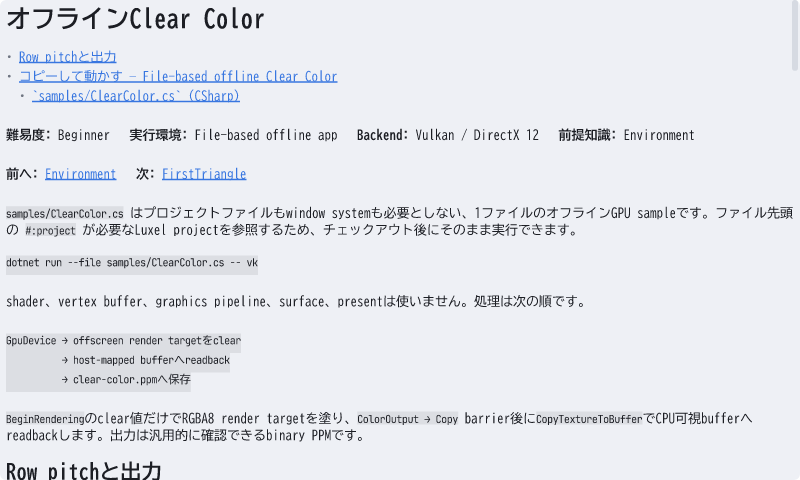
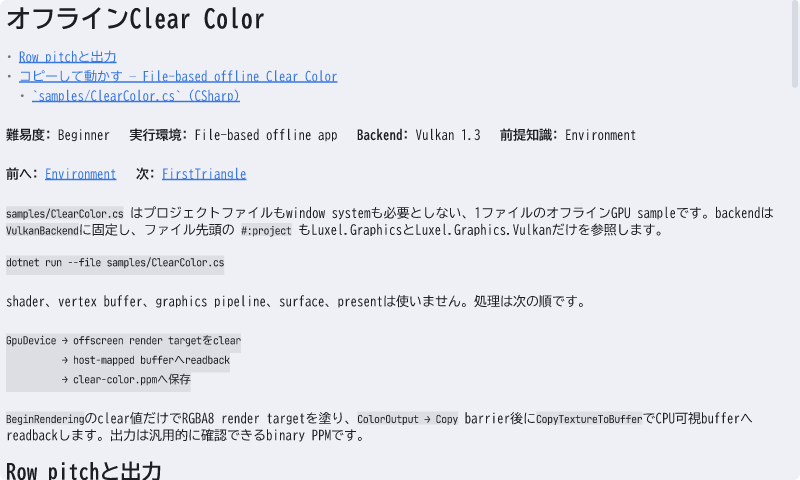
Deploy preview for PR 22 🛫

Changed region(s): [[0.0, 0.4688, 0.8125, 0.5], [0.5938, 0.25, 0.875, 0.3125], [0.875, 0.4062, 1.0, 0.4688]]

diff --git a/pr-preview/pr-22/stories/learn-rendering-basics-clearcolor.html b/pr-preview/pr-22/stories/learn-rendering-basics-clearcolor.html
@@ -7,10 +7,10 @@
 </ul>
 </li>
 </ul>
-<p><strong>難易度:</strong> Beginner　 <strong>実行環境:</strong> File-based offline app　 <strong>Backend:</strong> Vulkan / DirectX 12　 <strong>前提知識:</strong> Environment</p>
+<p><strong>難易度:</strong> Beginner　 <strong>実行環境:</strong> File-based offline app　 <strong>Backend:</strong> Vulkan 1.3　 <strong>前提知識:</strong> Environment</p>
 <p><strong>前へ:</strong> <a href="#story=Learn%2FRendering%2FBasics%2FEnvironment">Environment</a>　 <strong>次:</strong> <a href="#story=Learn%2FRendering%2FBasics%2FFirstTriangle">FirstTriangle</a></p>
-<p><code>samples/ClearColor.cs</code> はプロジェクトファイルもwindow systemも必要としない、1ファイルのオフラインGPU sampleです。ファイル先頭の <code>#:project</code> が必要なLuxel projectを参照するため、チェックアウト後にそのまま実行できます。</p>
-<pre><code class="language-powershell">dotnet run --file samples/ClearColor.cs -- vk
+<p><code>samples/ClearColor.cs</code> はプロジェクトファイルもwindow systemも必要としない、1ファイルのオフラインGPU sampleです。backendは<code>VulkanBackend</code>に固定し、ファイル先頭の <code>#:project</code> もLuxel.GraphicsとLuxel.Graphics.Vulkanだけを参照します。</p>
+<pre><code class="language-powershell">dotnet run --file samples/ClearColor.cs
 </code></pre>
 <p>shader、vertex buffer、graphics pipeline、surface、presentは使いません。処理は次の順です。</p>
 <pre><code class="language-text">GpuDevice → offscreen render targetをclear
@@ -19,28 +19,27 @@
 </code></pre>
 <p><code>BeginRendering</code>のclear値だけでRGBA8 render targetを塗り、<code>ColorOutput → Copy</code> barrier後に<code>CopyTextureToBuffer</code>でCPU可視bufferへreadbackします。出力は汎用的に確認できるbinary PPMです。</p>
 <h2 id="row-pitch">Row pitchと出力</h2>
-<p>D3D12のtexture readback row pitchは256 byte単位なので、GPU側のRGBA8 strideは64 pixel単位へ揃えます。PPMへ保存するときは各rowのpaddingを除去してRGBへ変換します。<code>--size 801x603</code>で任意サイズ、<code>--output result.ppm</code>で保存先を指定できます。</p>
+<p>描画サイズは教材とsmoke結果を一定にするため <strong>800×600</strong> に固定しています。Vulkanの<code>BufferRowLength</code>へ800 pixelを渡してRGBA8を密にreadbackし、PPMへ保存するときにRGBへ変換します。保存先だけは<code>--output result.ppm</code>で指定できます。</p>
 <p>window、event loop、resize、surfaceは後続のinteractive sample側の責務であり、このsampleには含めません。</p>
 <h2 id="file-based-offline-clear-color">コピーして動かす — File-based offline Clear Color</h2>
 <blockquote>
 <p><strong>Block</strong> · 難易度: Beginner · 依存 bundle: <code>support.source-tree</code></p>
 </blockquote>
 <p>A complete single-file GPU sample that clears an offscreen target, reads it back and writes a PPM image without creating a window.</p>
-<p><strong>必要条件:</strong> .NET 10 / Vulkan 1.3 or DirectX 12
+<p><strong>必要条件:</strong> .NET 10 / Vulkan 1.3
 <strong>Platform:</strong> Windows / Linux
 <strong>検証契約:</strong> exit <code>0</code> / timeout <code>300s</code> / stdout <code>clear-color: offline</code>
 <strong>生成物:</strong> <code>clear-color.ppm</code>
 <strong>接続点:</strong> <code>ClearColor.cs</code></p>
 <p><strong>Run</strong></p>
-<pre><code class="language-powershell">dotnet run --file samples/ClearColor.cs -- vk
+<pre><code class="language-powershell">dotnet run --file samples/ClearColor.cs
 </code></pre>
 <p><strong>Smoke test</strong></p>
-<pre><code class="language-powershell">dotnet run --file samples/ClearColor.cs -- vk --size 64x48 --output clear-color.ppm
+<pre><code class="language-powershell">dotnet run --file samples/ClearColor.cs -- --output clear-color.ppm
 </code></pre>
 <h3 id="samplesclearcolor.cs-csharp"><code>samples/ClearColor.cs</code> (CSharp)</h3>
 <pre><code class="language-csharp">#:project ../src/Luxel.Graphics/Luxel.Graphics.csproj
 #:project ../src/Luxel.Graphics.Vulkan/Luxel.Graphics.Vulkan.csproj
-#:project ../src/Luxel.Graphics.DirectX12/Luxel.Graphics.DirectX12.csproj
 #:property TargetFramework=net10.0
 
 using System.Security.Cryptography;
@@ -48,14 +47,14 @@ using System.Text;
 using Luxel.Graphics;
 using Luxel.Graphics.Vulkan;
 
-string backend = args.FirstOrDefault(argument =&gt; argument is &quot;vk&quot; or &quot;vulkan&quot; or &quot;dx&quot; or &quot;d3d12&quot;)?.ToLowerInvariant() ?? &quot;vk&quot;;
-(int width, int height) = ParseSize(args);
+const int width = 800;
+const int height = 600;
 string outputPath = ParseOutput(args);
 
 try
 {
-    using GpuDevice device = CreateDevice(backend);
-    uint stridePixels = (uint)Align(width, 64); // D3D12 RGBA8 readback rows must be aligned to 256 bytes.
+    using GpuDevice device = new(VulkanBackend.Create(enableValidation: false));
+    uint stridePixels = (uint)width;
     using GpuTexture target = device.CreateRenderTarget((uint)width, (uint)height, GpuFormat.Rgba8Unorm);
     using GpuBuffer readback = device.Malloc(checked((ulong)stridePixels * (uint)height * 4), GpuMemoryKind.HostMapped);
 
@@ -72,24 +71,13 @@ try
     byte[] rgba = CopyTightlyPacked(readback, stridePixels, width, height);
     WritePpm(outputPath, rgba, width, height);
     string sha256 = Convert.ToHexStringLower(SHA256.HashData(rgba));
-    Console.WriteLine($&quot;clear-color: offline, backend={backend}, device={device.Name}, size={width}x{height}, output={outputPath}, sha256={sha256}&quot;);
+    Console.WriteLine($&quot;clear-color: offline, backend=vulkan, device={device.Name}, size={width}x{height}, output={outputPath}, sha256={sha256}&quot;);
     return 0;
 }
 catch (Exception exception)
 {
     Console.Error.WriteLine(exception);
     return 1;
-}
-
-static GpuDevice CreateDevice(string backend)
-{
-    if (backend is &quot;dx&quot; or &quot;d3d12&quot;)
-    {
-        if (!OperatingSystem.IsWindows())
-            throw new PlatformNotSupportedException(&quot;DirectX 12 is available only on Windows. Use 'vk' on this platform.&quot;);
-        return new GpuDevice(Luxel.Graphics.DirectX12.D3D12Backend.Create());
-    }
-    return new GpuDevice(VulkanBackend.Create(enableValidation: false));
 }
 
 static byte[] CopyTightlyPacked(GpuBuffer readback, uint stridePixels, int width, int height)
@@ -123,24 +111,6 @@ static void WritePpm(string path, ReadOnlySpan&lt;byte&gt; rgba, int width, int 
     }
 }
 
-static (int Width, int Height) ParseSize(string[] arguments)
-{
-    for (int index = 0; index &lt; arguments.Length; index++)
-    {
-        string? value = null;
-        if (arguments[index] == &quot;--size&quot; &amp;&amp; index + 1 &lt; arguments.Length) value = arguments[index + 1];
-        else if (arguments[index].StartsWith(&quot;--size=&quot;, StringComparison.Ordinal)) value = arguments[index][&quot;--size=&quot;.Length..];
-        if (value is null) continue;
-
-        string[] parts = value.Split('x', 'X');
-        if (parts.Length == 2 &amp;&amp; int.TryParse(parts[0], out int width) &amp;&amp; int.TryParse(parts[1], out int height)
-            &amp;&amp; width &gt; 0 &amp;&amp; height &gt; 0)
-            return (width, height);
-        throw new ArgumentException(&quot;--size must be a positive WIDTHxHEIGHT value, for example 801x603.&quot;);
-    }
-    return (800, 600);
-}
-
 static string ParseOutput(string[] arguments)
 {
     for (int index = 0; index &lt; arguments.Length; index++)
@@ -150,21 +120,19 @@ static string ParseOutput(string[] arguments)
     }
     return &quot;clear-color.ppm&quot;;
 }
-
-static int Align(int value, int alignment) =&gt; (value + alignment - 1) / alignment * alignment;
 </code></pre>
-<details class="sample-bundle"><summary>Run this sample — Block</summary><p>A complete single-file GPU sample that clears an offscreen target, reads it back and writes a PPM image without creating a window.</p><p><strong>Requirements:</strong> .NET 10 / Vulkan 1.3 or DirectX 12</p><p><strong>Platforms:</strong> Windows / Linux</p><p><strong>Verification:</strong> exit 0, timeout 300s, stdout <code>clear-color: offline</code></p><ul><li><code>samples/ClearColor.cs</code> <span>CSharp</span></li></ul><p><strong>Run</strong></p><pre><code class="language-shell">dotnet run --file samples/ClearColor.cs -- vk</code></pre><p><strong>Smoke test</strong></p><pre><code class="language-shell">dotnet run --file samples/ClearColor.cs -- vk --size 64x48 --output clear-color.ppm</code></pre></details><details class="story-source"><summary>Story source</summary><pre><code class="language-csharp">[Story(&quot;Learn/Rendering/Basics/ClearColor&quot;, Order = 2, SampleBundle = &quot;rendering.clear-color&quot;)]
+<details class="sample-bundle"><summary>Run this sample — Block</summary><p>A complete single-file GPU sample that clears an offscreen target, reads it back and writes a PPM image without creating a window.</p><p><strong>Requirements:</strong> .NET 10 / Vulkan 1.3</p><p><strong>Platforms:</strong> Windows / Linux</p><p><strong>Verification:</strong> exit 0, timeout 300s, stdout <code>clear-color: offline</code></p><ul><li><code>samples/ClearColor.cs</code> <span>CSharp</span></li></ul><p><strong>Run</strong></p><pre><code class="language-shell">dotnet run --file samples/ClearColor.cs</code></pre><p><strong>Smoke test</strong></p><pre><code class="language-shell">dotnet run --file samples/ClearColor.cs -- --output clear-color.ppm</code></pre></details><details class="story-source"><summary>Story source</summary><pre><code class="language-csharp">[Story(&quot;Learn/Rendering/Basics/ClearColor&quot;, Order = 2, SampleBundle = &quot;rendering.clear-color&quot;)]
 public static Widget ClearColor(StoryContext ctx)
 {
     return DocNew(ctx, $&quot;&quot;&quot;
     # オフラインClear Color
 
-    {RenderingCourseCatalog.Meta(&quot;Learn/Rendering/Basics/ClearColor&quot;, &quot;Beginner&quot;, &quot;File-based offline app&quot;, &quot;Vulkan / DirectX 12&quot;, &quot;Environment&quot;)}
+    {RenderingCourseCatalog.Meta(&quot;Learn/Rendering/Basics/ClearColor&quot;, &quot;Beginner&quot;, &quot;File-based offline app&quot;, &quot;Vulkan 1.3&quot;, &quot;Environment&quot;)}
 
-    `samples/ClearColor.cs` はプロジェクトファイルもwindow systemも必要としない、1ファイルのオフラインGPU sampleです。ファイル先頭の `#:project` が必要なLuxel projectを参照するため、チェックアウト後にそのまま実行できます。
+    `samples/ClearColor.cs` はプロジェクトファイルもwindow systemも必要としない、1ファイルのオフラインGPU sampleです。backendは`VulkanBackend`に固定し、ファイル先頭の `#:project` もLuxel.GraphicsとLuxel.Graphics.Vulkanだけを参照します。
 
     ```powershell
-    dotnet run --file samples/ClearColor.cs -- vk
+    dotnet run --file samples/ClearColor.cs
     ```
 
     shader、vertex buffer、graphics pipeline、surface、presentは使いません。処理は次の順です。
@@ -179,7 +147,7 @@ public static Widget ClearColor(StoryContext ctx)
 
     ## Row pitchと出力
 
-    D3D12のtexture readback row pitchは256 byte単位なので、GPU側のRGBA8 strideは64 pixel単位へ揃えます。PPMへ保存するときは各rowのpaddingを除去してRGBへ変換します。`--size 801x603`で任意サイズ、`--output result.ppm`で保存先を指定できます。
+    描画サイズは教材とsmoke結果を一定にするため **800&#215;600** に固定しています。Vulkanの`BufferRowLength`へ800 pixelを渡してRGBA8を密にreadbackし、PPMへ保存するときにRGBへ変換します。保存先だけは`--output result.ppm`で指定できます。
 
     window、event loop、resize、surfaceは後続のinteractive sample側の責務であり、このsampleには含めません。
 

diff --git a/pr-preview/pr-22/stories/build-blocks-rendering-offlineclearcolor.html b/pr-preview/pr-22/stories/build-blocks-rendering-offlineclearcolor.html
@@ -6,27 +6,26 @@
 </ul>
 </li>
 </ul>
-<p><code>samples/ClearColor.cs</code>としてそのまま実行できる、device、offscreen render target、clear、readback、PPM保存、disposeの最小blockです。window、surface、event loopを含まないため、GPU描画とreadbackだけを独立して検証できます。</p>
+<p><code>samples/ClearColor.cs</code>としてそのまま実行できる、Vulkan device、800×600のoffscreen render target、clear、readback、PPM保存、disposeの最小blockです。<code>VulkanBackend</code>と描画サイズを固定し、window、surface、event loopを含まないため、GPU描画とreadbackだけを独立して検証できます。</p>
 <h2 id="file-based-offline-clear-color">コピーして動かす — File-based offline Clear Color</h2>
 <blockquote>
 <p><strong>Block</strong> · 難易度: Beginner · 依存 bundle: <code>support.source-tree</code></p>
 </blockquote>
 <p>A complete single-file GPU sample that clears an offscreen target, reads it back and writes a PPM image without creating a window.</p>
-<p><strong>必要条件:</strong> .NET 10 / Vulkan 1.3 or DirectX 12
+<p><strong>必要条件:</strong> .NET 10 / Vulkan 1.3
 <strong>Platform:</strong> Windows / Linux
 <strong>検証契約:</strong> exit <code>0</code> / timeout <code>300s</code> / stdout <code>clear-color: offline</code>
 <strong>生成物:</strong> <code>clear-color.ppm</code>
 <strong>接続点:</strong> <code>ClearColor.cs</code></p>
 <p><strong>Run</strong></p>
-<pre><code class="language-powershell">dotnet run --file samples/ClearColor.cs -- vk
+<pre><code class="language-powershell">dotnet run --file samples/ClearColor.cs
 </code></pre>
 <p><strong>Smoke test</strong></p>
-<pre><code class="language-powershell">dotnet run --file samples/ClearColor.cs -- vk --size 64x48 --output clear-color.ppm
+<pre><code class="language-powershell">dotnet run --file samples/ClearColor.cs -- --output clear-color.ppm
 </code></pre>
 <h3 id="samplesclearcolor.cs-csharp"><code>samples/ClearColor.cs</code> (CSharp)</h3>
 <pre><code class="language-csharp">#:project ../src/Luxel.Graphics/Luxel.Graphics.csproj
 #:project ../src/Luxel.Graphics.Vulkan/Luxel.Graphics.Vulkan.csproj
-#:project ../src/Luxel.Graphics.DirectX12/Luxel.Graphics.DirectX12.csproj
 #:property TargetFramework=net10.0
 
 using System.Security.Cryptography;
@@ -34,14 +33,14 @@ using System.Text;
 using Luxel.Graphics;
 using Luxel.Graphics.Vulkan;
 
-string backend = args.FirstOrDefault(argument =&gt; argument is &quot;vk&quot; or &quot;vulkan&quot; or &quot;dx&quot; or &quot;d3d12&quot;)?.ToLowerInvariant() ?? &quot;vk&quot;;
-(int width, int height) = ParseSize(args);
+const int width = 800;
+const int height = 600;
 string outputPath = ParseOutput(args);
 
 try
 {
-    using GpuDevice device = CreateDevice(backend);
-    uint stridePixels = (uint)Align(width, 64); // D3D12 RGBA8 readback rows must be aligned to 256 bytes.
+    using GpuDevice device = new(VulkanBackend.Create(enableValidation: false));
+    uint stridePixels = (uint)width;
     using GpuTexture target = device.CreateRenderTarget((uint)width, (uint)height, GpuFormat.Rgba8Unorm);
     using GpuBuffer readback = device.Malloc(checked((ulong)stridePixels * (uint)height * 4), GpuMemoryKind.HostMapped);
 
@@ -58,24 +57,13 @@ try
     byte[] rgba = CopyTightlyPacked(readback, stridePixels, width, height);
     WritePpm(outputPath, rgba, width, height);
     string sha256 = Convert.ToHexStringLower(SHA256.HashData(rgba));
-    Console.WriteLine($&quot;clear-color: offline, backend={backend}, device={device.Name}, size={width}x{height}, output={outputPath}, sha256={sha256}&quot;);
+    Console.WriteLine($&quot;clear-color: offline, backend=vulkan, device={device.Name}, size={width}x{height}, output={outputPath}, sha256={sha256}&quot;);
     return 0;
 }
 catch (Exception exception)
 {
     Console.Error.WriteLine(exception);
     return 1;
-}
-
-static GpuDevice CreateDevice(string backend)
-{
-    if (backend is &quot;dx&quot; or &quot;d3d12&quot;)
-    {
-        if (!OperatingSystem.IsWindows())
-            throw new PlatformNotSupportedException(&quot;DirectX 12 is available only on Windows. Use 'vk' on this platform.&quot;);
-        return new GpuDevice(Luxel.Graphics.DirectX12.D3D12Backend.Create());
-    }
-    return new GpuDevice(VulkanBackend.Create(enableValidation: false));
 }
 
 static byte[] CopyTightlyPacked(GpuBuffer readback, uint stridePixels, int width, int height)
@@ -109,24 +97,6 @@ static void WritePpm(string path, ReadOnlySpan&lt;byte&gt; rgba, int width, int 
     }
 }
 
-static (int Width, int Height) ParseSize(string[] arguments)
-{
-    for (int index = 0; index &lt; arguments.Length; index++)
-    {
-        string? value = null;
-        if (arguments[index] == &quot;--size&quot; &amp;&amp; index + 1 &lt; arguments.Length) value = arguments[index + 1];
-        else if (arguments[index].StartsWith(&quot;--size=&quot;, StringComparison.Ordinal)) value = arguments[index][&quot;--size=&quot;.Length..];
-        if (value is null) continue;
-
-        string[] parts = value.Split('x', 'X');
-        if (parts.Length == 2 &amp;&amp; int.TryParse(parts[0], out int width) &amp;&amp; int.TryParse(parts[1], out int height)
-            &amp;&amp; width &gt; 0 &amp;&amp; height &gt; 0)
-            return (width, height);
-        throw new ArgumentException(&quot;--size must be a positive WIDTHxHEIGHT value, for example 801x603.&quot;);
-    }
-    return (800, 600);
-}
-
 static string ParseOutput(string[] arguments)
 {
     for (int index = 0; index &lt; arguments.Length; index++)
@@ -136,14 +106,12 @@ static string ParseOutput(string[] arguments)
     }
     return &quot;clear-color.ppm&quot;;
 }
-
-static int Align(int value, int alignment) =&gt; (value + alignment - 1) / alignment * alignment;
 </code></pre>
-<details class="sample-bundle"><summary>Run this sample — Block</summary><p>A complete single-file GPU sample that clears an offscreen target, reads it back and writes a PPM image without creating a window.</p><p><strong>Requirements:</strong> .NET 10 / Vulkan 1.3 or DirectX 12</p><p><strong>Platforms:</strong> Windows / Linux</p><p><strong>Verification:</strong> exit 0, timeout 300s, stdout <code>clear-color: offline</code></p><ul><li><code>samples/ClearColor.cs</code> <span>CSharp</span></li></ul><p><strong>Run</strong></p><pre><code class="language-shell">dotnet run --file samples/ClearColor.cs -- vk</code></pre><p><strong>Smoke test</strong></p><pre><code class="language-shell">dotnet run --file samples/ClearColor.cs -- vk --size 64x48 --output clear-color.ppm</code></pre></details><details class="story-source"><summary>Story source</summary><pre><code class="language-csharp">[Story(&quot;Build/Blocks/Rendering/OfflineClearColor&quot;, Order = 0, SampleBundle = &quot;rendering.clear-color&quot;)]
+<details class="sample-bundle"><summary>Run this sample — Block</summary><p>A complete single-file GPU sample that clears an offscreen target, reads it back and writes a PPM image without creating a window.</p><p><strong>Requirements:</strong> .NET 10 / Vulkan 1.3</p><p><strong>Platforms:</strong> Windows / Linux</p><p><strong>Verification:</strong> exit 0, timeout 300s, stdout <code>clear-color: offline</code></p><ul><li><code>samples/ClearColor.cs</code> <span>CSharp</span></li></ul><p><strong>Run</strong></p><pre><code class="language-shell">dotnet run --file samples/ClearColor.cs</code></pre><p><strong>Smoke test</strong></p><pre><code class="language-shell">dotnet run --file samples/ClearColor.cs -- --output clear-color.ppm</code></pre></details><details class="story-source"><summary>Story source</summary><pre><code class="language-csharp">[Story(&quot;Build/Blocks/Rendering/OfflineClearColor&quot;, Order = 0, SampleBundle = &quot;rendering.clear-color&quot;)]
 public static Widget OfflineClearColor(StoryContext ctx) =&gt; DocNew(ctx, $&quot;&quot;&quot;
     # Block: Offline Clear Color
 
-    `samples/ClearColor.cs`としてそのまま実行できる、device、offscreen render target、clear、readback、PPM保存、disposeの最小blockです。window、surface、event loopを含まないため、GPU描画とreadbackだけを独立して検証できます。
+    `samples/ClearColor.cs`としてそのまま実行できる、Vulkan device、800&#215;600のoffscreen render target、clear、readback、PPM保存、disposeの最小blockです。`VulkanBackend`と描画サイズを固定し、window、surface、event loopを含まないため、GPU描画とreadbackだけを独立して検証できます。
 
     {SampleBundle(&quot;rendering.clear-color&quot;)}
     &quot;&quot;&quot;, toc: true);</code></pre></details></article>
